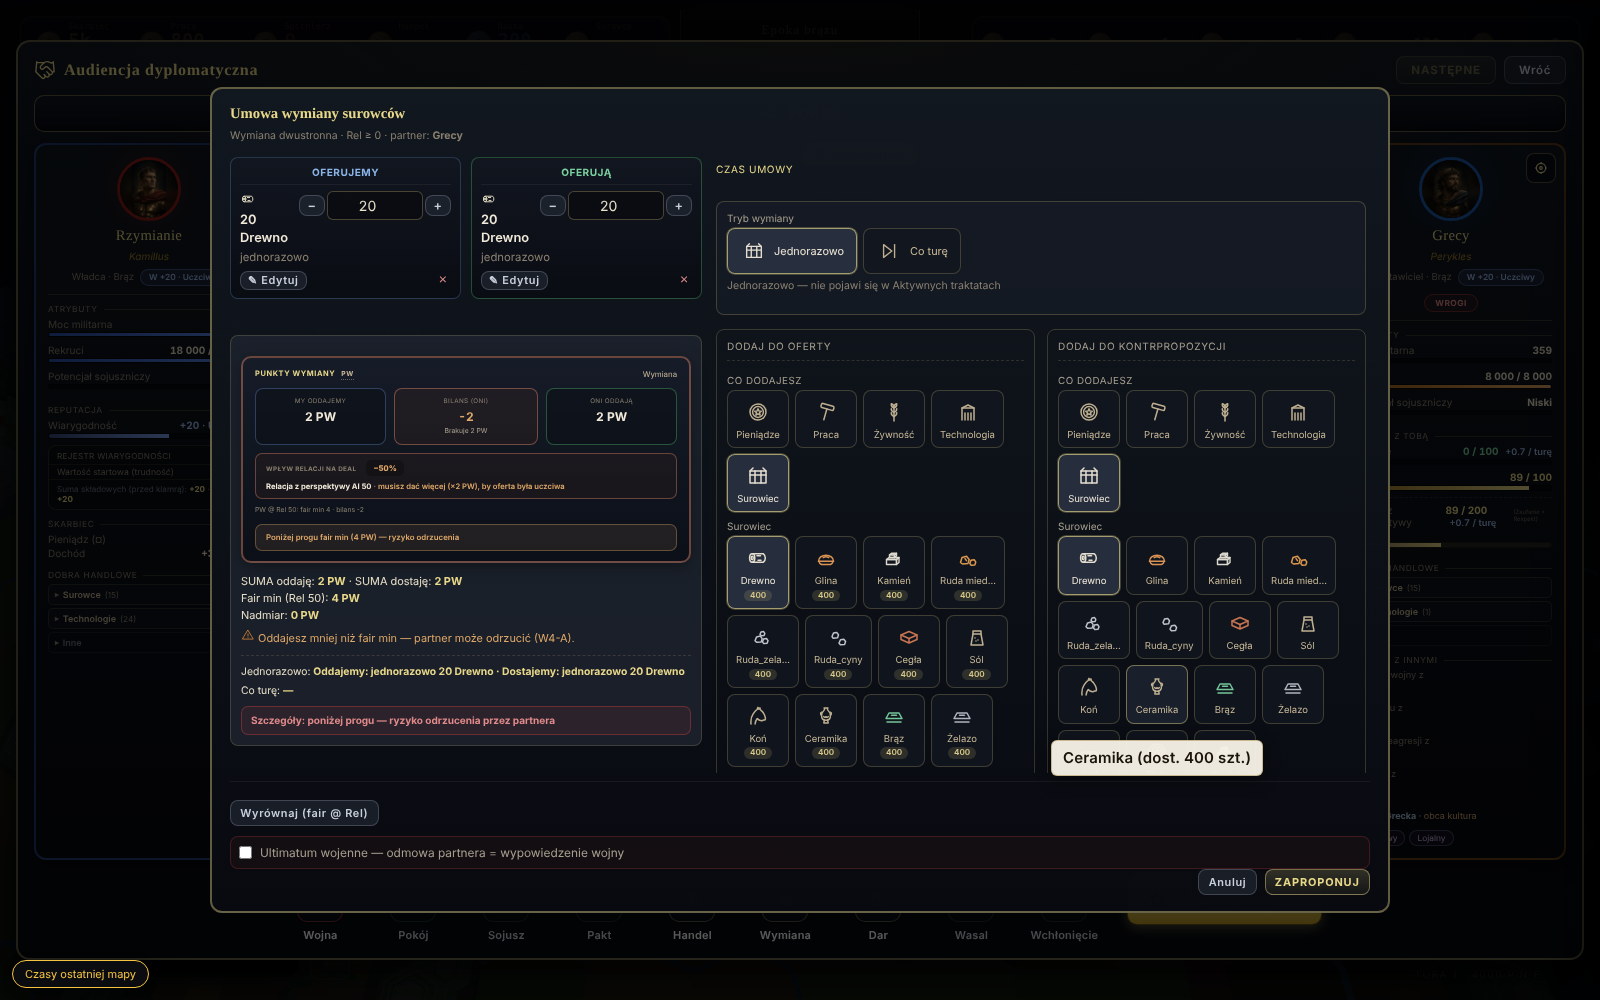
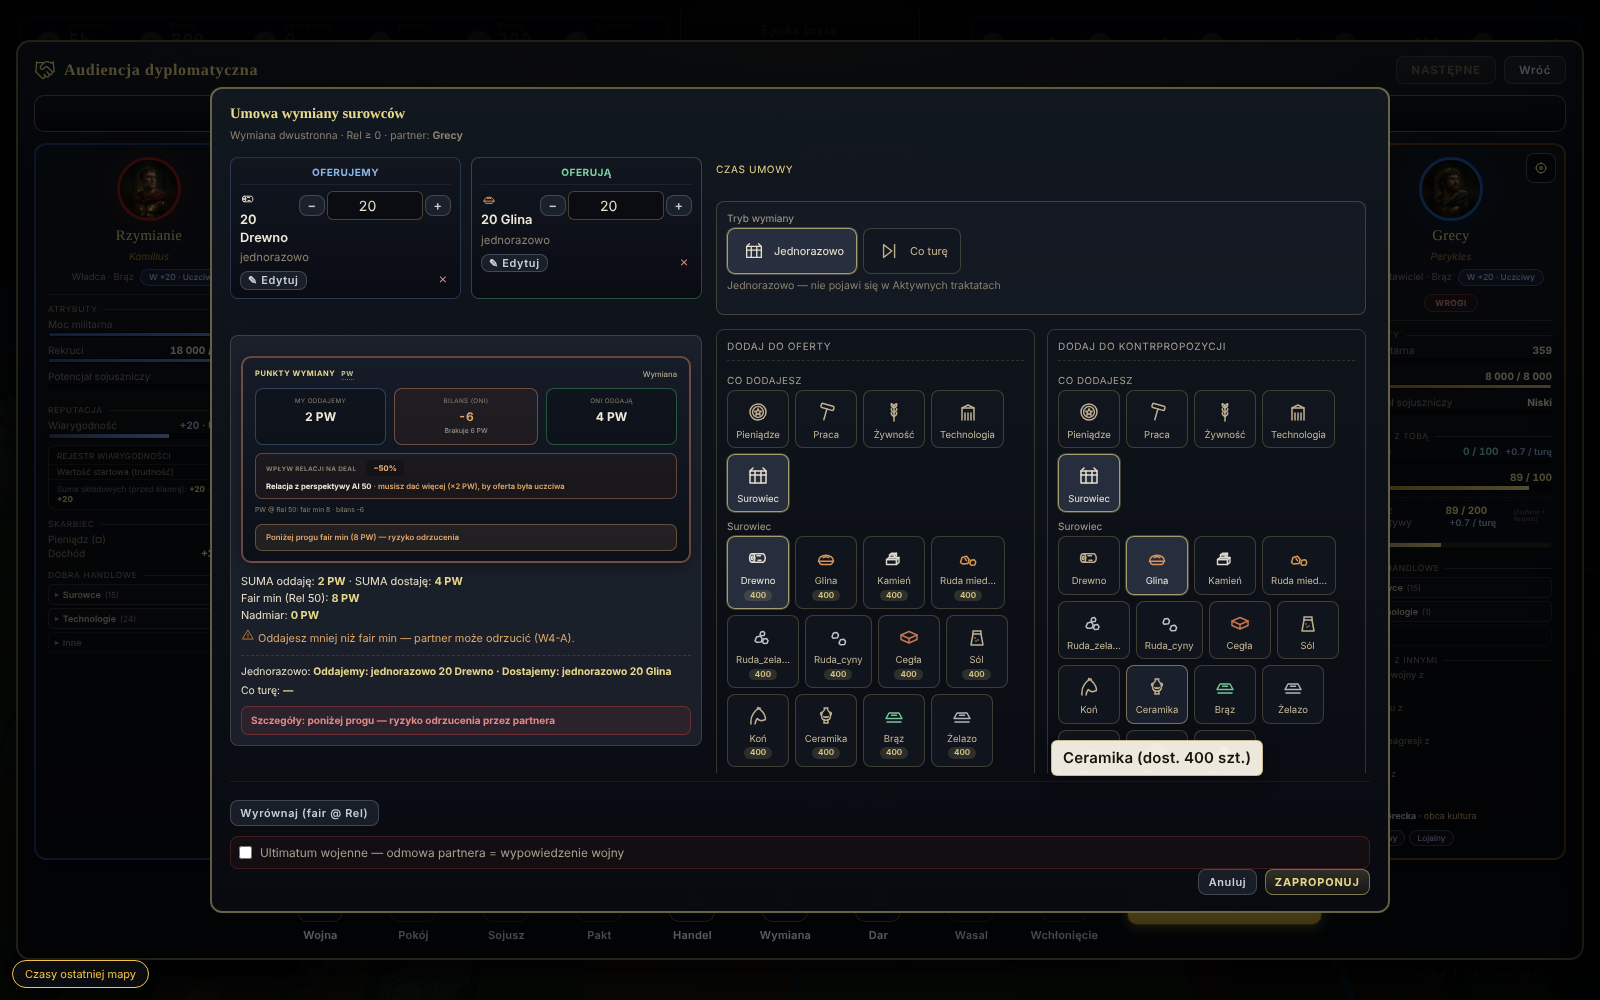
R-WEB-LIVE-VERIFY-WAVE-689-697-A2-TRADE-DIALOG-DOM-Q1: obrona r2 (zarzuty Evaluatora)
- P3c: strona "oferują" wybiera inny surowiec niż "oferujemy" (Glina vs Drewno)
- P4: symetryczny pomiar podpowiedzi przy pustej stronie "oferujemy" (P4-give-empty)
- P5: sprawdzenie istnienia i rozmiaru zrzutów zamiast stałego PASS; usunięte "obejrzane w sesji"
- JSON bez bezwzględnych ścieżek (dist = basename, zrzuty względne)
- usunięta martwa funkcja itemsStr
- mutant (cofnięta poprawka FALI 692): P2 FAIL, pageErrors=0; kandydat: 11/11 checks PASS

Claude-Session: https://claude.ai/code/session_01Fs7eokPtaxbQL7KGTXXeWS

Changed region(s): [[0.6562, 0.527, 0.75, 0.62], [0.2812, 0.217, 0.3438, 0.31], [0.4062, 0.651, 0.4375, 0.682]]

diff --git a/dyspozycje/autobot/runs/R-WEB-LIVE-VERIFY-WAVE-689-697-A2-TRADE-DIALOG-DOM-Q1/30-obrona-claude.md b/dyspozycje/autobot/runs/R-WEB-LIVE-VERIFY-WAVE-689-697-A2-TRADE-DIALOG-DOM-Q1/30-obrona-claude.md
@@ -1,0 +1,75 @@
+# R-WEB-LIVE-VERIFY-WAVE-689-697-A2-TRADE-DIALOG-DOM-Q1 — raport obrony Operatora (runda 2)
+
+STATUS: PASS-WITH-NOTES
+DOMAIN: GAME
+TEMAT: R-WEB-LIVE-VERIFY-WAVE-689-697-A2-TRADE-DIALOG-DOM-Q1
+GOAL: Potwierdzić na żywej grze (Chromium, bundle vite poza repo, `?playtest=mapa&civTest=1`), że okno „Umowa wymiany surowców” z AI nie przebudowuje węzłów DOM przy dodaniu pozycji po obu stronach, że obie strony są wypełnialne przed jednym „Zaproponuj”, że neutralna podpowiedź pojawia się przy pustej stronie (obie strony symetrycznie) oraz zebrać zrzuty przed/po.
+BAZA: kandydat 638e4c61d (zawiera 75e238e52 i ddc0d8dda — oba są przodkami, sprawdzone `git merge-base --is-ancestor`). Ta runda: commit obrony na 638e4c61d.
+ZMIANY-COMMIT: patrz sekcja „Odpowiedzi na zarzuty” (commit SHA na końcu raportu). Dotknięte pliki: `gra/tools/live-verify-wave-689-697-a2-trade.cjs`, `runs/…/trade-live-pre.json`, `runs/…/trade-live-mut.json`, `runs/…/shots-pre/03,04`, `runs/…/shots-mut/03,04`, ten raport. Brak zmian w `gra/src`, `gra/data`, `WERSJE.md`.
+
+## Odpowiedzi na zarzuty Evaluatora (21506092b)
+
+| Zarzut | Decyzja | Dowód |
+|---|---|---|
+| 1. P3c słaby: ten sam surowiec (Drewno) po obu stronach | PRZYJMUJĘ — poprawka + commit | `addResource('recv', giveRes.resId)` wybiera inny surowiec niż oferowany. W `trade-live-pre.json`: `audLabels.give = "Drewno"`, `audLabels.recv = "Glina"`, `found = [true, true]`. Surowiec po stronie „oferują” jest już różny, więc samo `includes` rozróżnia obie strony. |
+| 2a. P4 tylko dla pustej strony „oferują”, brak symetrii | PRZYJMUJĘ — nowy check `P4-give-empty` | Po P3 okno ponownie otwarte; `reopenedRows = {give: 0, receive: 0}` (stan czysty). Dodana tylko strona „oferują”; `hintGiveEmpty = "Dodaj, co oddasz w zamian — albo wyślij jako dar"` (PASS). Lustrzany `hintAfterGive = "Dodaj, co chcesz dostać w zamian — albo wyślij jako dar"` (PASS, P4). |
+| 2b. Brak mutacji dla P3 i P4 | ODRZUCAM (z uzasadnieniem) | Dispatch: „dowód mutacyjny jeśli możliwy (np. … cofnięcie poprawki FALI 692)”. Poprawka FALI 692 to `morphBasketMarkup` (`basketMorphChildren` → `box.innerHTML`). Dotyczy wyłącznie zachowania węzłów (P2). Mutacja P3 (przycisk „Zaproponuj”) albo P4 (podpowiedź) testowałaby inną ścieżkę kodu, niezwiązaną z FALĄ 692, więc nie dowodziłaby poprawki. Mutacja tej poprawki jest wykonana i daje FAIL w P2 (sekcja Testy). |
+| 3. P5 zapisane na sztywno jako PASS; absolutne ścieżki w JSON | PRZYJMUJĘ — poprawka + commit | P5 sprawdza teraz istnienie i niezerowy rozmiar czterech plików (`bytes: [309921, 293530, 342738, 441584]` w pre). Usunięte twierdzenie „obejrzane w sesji” z runnera. `res.dist` = `path.basename(DIST)`, ścieżka zrzutów względna (`../dyspozycje/…/shots-pre`). `grep -l '/home/\|/tmp/'` na obu JSON: brak trafień. |
+| 4. „Brak migotania” mierzone tylko identycznością węzłów | ODRZUCAM | Dispatch, GOAL pkt 2 dosłownie: „identyczność węzła `===` przed/po; brak migotania = brak zastąpienia węzła”. Runner mierzy właśnie to. Analiza klatek nie była wymagana. Ograniczenie zostaje odnotowane w raporcie jako niezmierzone wizualnie (patrz Uwagi). |
+| 5. Dispatch nieobecny na origin/main | PRZYJMUJĘ jako obserwację (nie naprawiam) | `git show origin/main:…/00-dispatch.md` → „path does not exist in origin/main”. Plik istnieje na gałęzi `origin/claude/sprawdzenie-funkcjonalnosci-ek4ra0` (ls-tree potwierdza). Rozbieżność bazy 75e238e52 vs ddc0d8dda nie ma skutku: oba są przodkami kandydata. |
+| 6. Martwa funkcja `itemsStr`; `submitDisabledWhenOnlyGive=false` | PRZYJMUJĘ część (usunięcie) / ODRZUCAM część (zarzut do kodu gry) | `itemsStr` usunięta (martwy kod). `submitDisabledWhenOnlyGive=false` to zmierzony fakt, nie błąd: P3 wymaga aktywnego „Zaproponuj” gdy obie strony są niepuste, a podpowiedź „…albo wyślij jako dar” sugeruje, że jednostronna oferta (dar) jest celowa. Decyzja, czy dar ma być dozwolony, należy do właściciela, nie do tego tematu. |
+
+## Punkty dispatchu (wynik rundy 2)
+
+| Punkt | Wynik | Dowód |
+|---|---|---|
+| 1. Otwarcie okna z AI (akcja 14) | PASS | `checks` P1; overlay `.civ-diplo-basket-overlay` otwarty |
+| 2a. Węzły przeżywają dodanie po „oferujemy” | PASS | `checks` P2a: box, `.cdb-body-scroll`, `.cdb-col` strony B — `===` przed/po; expando obecny |
+| 2b. Węzły przeżywają dodanie po „oferują” | PASS | `checks` P2b: `===` przed/po (w tej rundzie wykonane jako drugie dodanie, po P2a) |
+| 3a. Obie strony niepuste → „Zaproponuj” aktywny | PASS | `submitDisabled = false` |
+| 3b. Jeden klik = jedna propozycja | PASS | `tableBefore = 0`, `tableAfter = 1`; `ownRemove = 2`; toast „Propozycja na stole — użyj Przyjmij w Punkty wymiany” |
+| 3c. Propozycja zawiera obie strony | PASS | `audLabels`: give „Drewno”, recv „Glina”, oba znalezione w `.civ-diplo-aud` (różne surowce) |
+| 4. Neutralna podpowiedź przy pustej stronie (obie strony symetrycznie) | PASS | `hintAfterGive` (recv pusta) i `hintGiveEmpty` (give pusta); brak frazy „ryzyko odrzucenia” w `.cdb-neutral-hint` |
+| 5. Zrzuty przed/po, obejrzane | PASS | `shots-pre/01..04`, `shots-mut/01..04` (deviceScaleFactor 1, 1600×1000). Operator obejrzał 01–04; w tej rundzie ponownie obejrzano 01 i 03 (opis niżej) |
+
+Uwaga do zakresu P4: podpowiedź `.cdb-neutral-hint` pojawia się tylko, gdy DOKŁADNIE jedna strona jest pusta (kod: `oneSideEmpty` = XOR). Przy obu pustych stronach `bothEmptyHint = null` (zapisane w JSON, bez PASS/FAIL).
+
+## Testy (surowe wyniki tej rundy)
+
+- Build kandydata `vite build --outDir <scratchpad>/dist-trade-w` → `✓ built in 18.72s` (poza repo).
+- Build mutanta (`box.innerHTML = inner` w `morphBasketMarkup`, kopia w scratchpad) → `✓ built in 16.91s`.
+- Runner `--tag pre` → `RESULT tag=pre: checks=11 FAIL=0 pageErrors=0`; `{"P1":PASS,"P2":PASS,"P3":PASS,"P4":PASS,"P5":PASS}`.
+- Runner `--tag mut` → `RESULT tag=mut: checks=11 FAIL=2 pageErrors=0`; `{"P1":PASS,"P2":FAIL,"P3":PASS,"P4":PASS,"P5":PASS}`. FAIL: `P2a` (`scroll:false, colB:false, expando:false`) i `P2b`. Mutacja wykrywa zastąpienie węzłów.
+- `git diff --check` → czysty.
+- `gra/src` i `gra/data` nie zmienione względem 638e4c61d (`git diff --stat` puste). Testy jednostkowe (tsc, logic, trade-dialog-no-rerender) NIE były uruchamiane w tej rundzie, bo kod gry się nie zmienił; wynik 19/19 z rundy 1 pochodzi z raportu Operatora i Evaluatora.
+- `node_modules` w `gra/` zainstalowane przez `npm ci --ignore-scripts` (ignorowane przez .gitignore); nie commitowane.
+
+## Zrzuty (ponowny przegląd tej rundy)
+
+- 01 (`shots-pre/01-okno-otwarte-puste.png`): obie strony puste („—”), „Zaproponuj” nieaktywny. Pod przyciskami widać czerwony tekst „Dodaj co najmniej jedną pozycję w „Co oddajesz” lub „Co dostajesz””. Ten tekst nie jest w `.cdb-neutral-hint`, a runner go nie mierzy. Jego źródła w `gra/src` nie znalazłem grepem tej frazy, więc nie twierdzę, skąd pochodzi.
+- 03 (`shots-pre/03-po-dodaniu-oferuja-przed-zaproponuj.png`): po obu stronach po „20” (Drewno i Glina), „Zaproponuj” aktywny. W panelu punktów: „Oddajesz mniej niż fair min — partner może odrzucić (W4-A)” i „Szczegóły: poniżej progu — ryzyko odrzucenia przez partnera”. To ostrzeżenia wyceny, nie część tego tematu; nie są w sprzeczności z P4, bo P4 dotyczy stanu z pustą stroną.
+
+## BLOKADY
+
+Brak blokad technicznych. Odstępstwa od dispatchu:
+- Mutacja P3/P4 nie wykonana — uzasadnienie w tabeli zarzutów (pkt 2b).
+- Wizualny brak migotania nie zmierzony (tylko identyczność węzłów, jak zapisano w dispatchu).
+
+## UWAGI-DLA-ORKIESTRATORA
+
+1. Poza zakresem: propozycja „20 Drewno za 20 Drewno” z poprzedniej rundy zostaje wysłana mimo ostrzeżenia o fair min; w audiencji „Przyjmij” jest wyłączony z powodem „Oferta nieuczciwa dla partnera”. Czy to zamierzone, decyduje właściciel (zgłoszenie do rejestru, nie do tego tematu).
+2. Dispatch (00-dispatch.md) jest tylko na gałęzi `claude/sprawdzenie-funkcjonalnosci-ek4ra0`, nie na origin/main — do uporządkowania przez orkiestratora.
+3. Kandydat 638e4c61d jest w tej gałęzi z commitami obrony; orkiestrator decyduje o integracji (Operator nie integruje).
+4. Tekst „Dodaj co najmniej jedną pozycję…” z zrzutu 01 nie jest mierzony przez runner i nie zlokalizowałem jego źródła w `gra/src` — do ewentualnego doprecyzowania w osobnym temacie, jeśli właściciel chce tę podpowiedź w testach.
+
+## RUNDY
+
+2/5 (runda obrony po Evaluatorze r1). Zarzuty przyjęte: 1, 2a, 3, 5 (obserwacja), 6 (usunięcie `itemsStr`). Odrzucone z dowodem: 2b, 4, 6 (zarzut do kodu gry).
+
+## NASTĘPNY KROK
+
+Evaluator (SONNET): ponowna weryfikacja commitu obrony (runner, JSON, zrzuty pre/mut). Potem Final Control.
+
+## DEPLOY/PUSH
+
+NIE WYKONANO (Operator nie pushuje ani nie integruje).
